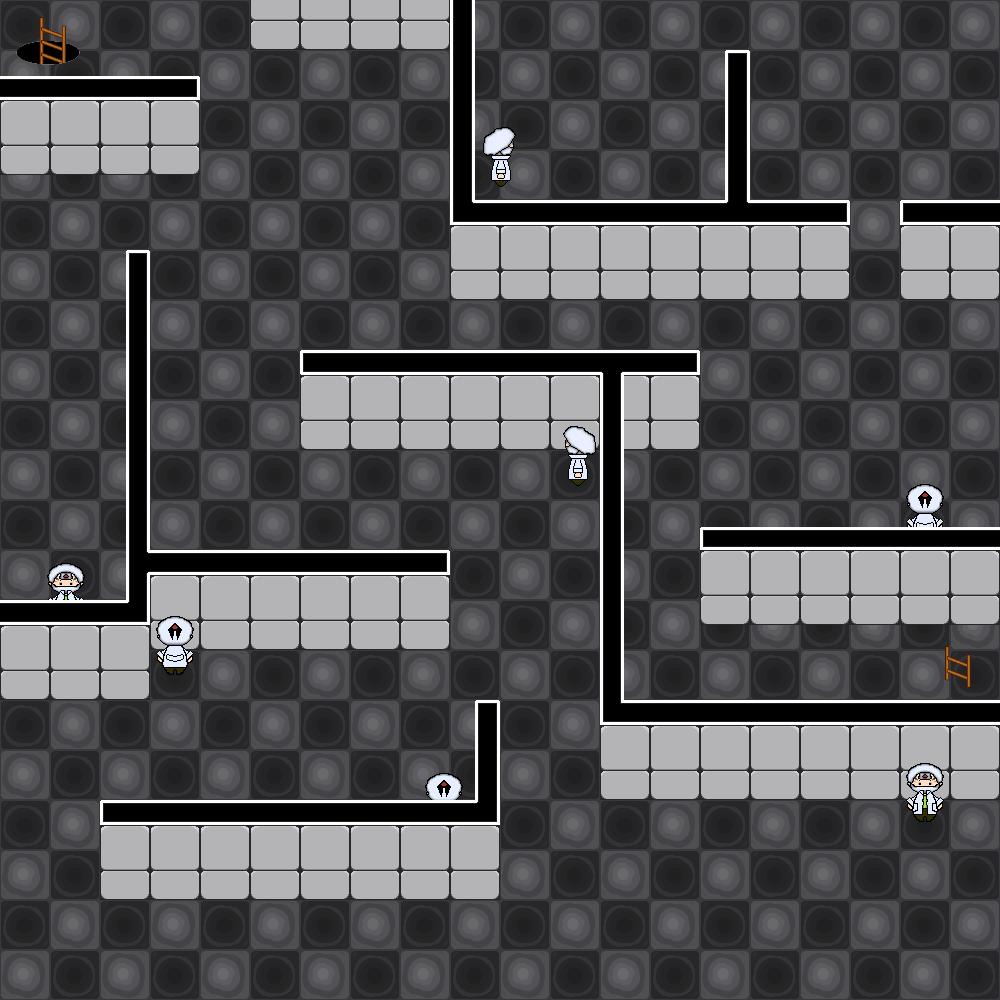
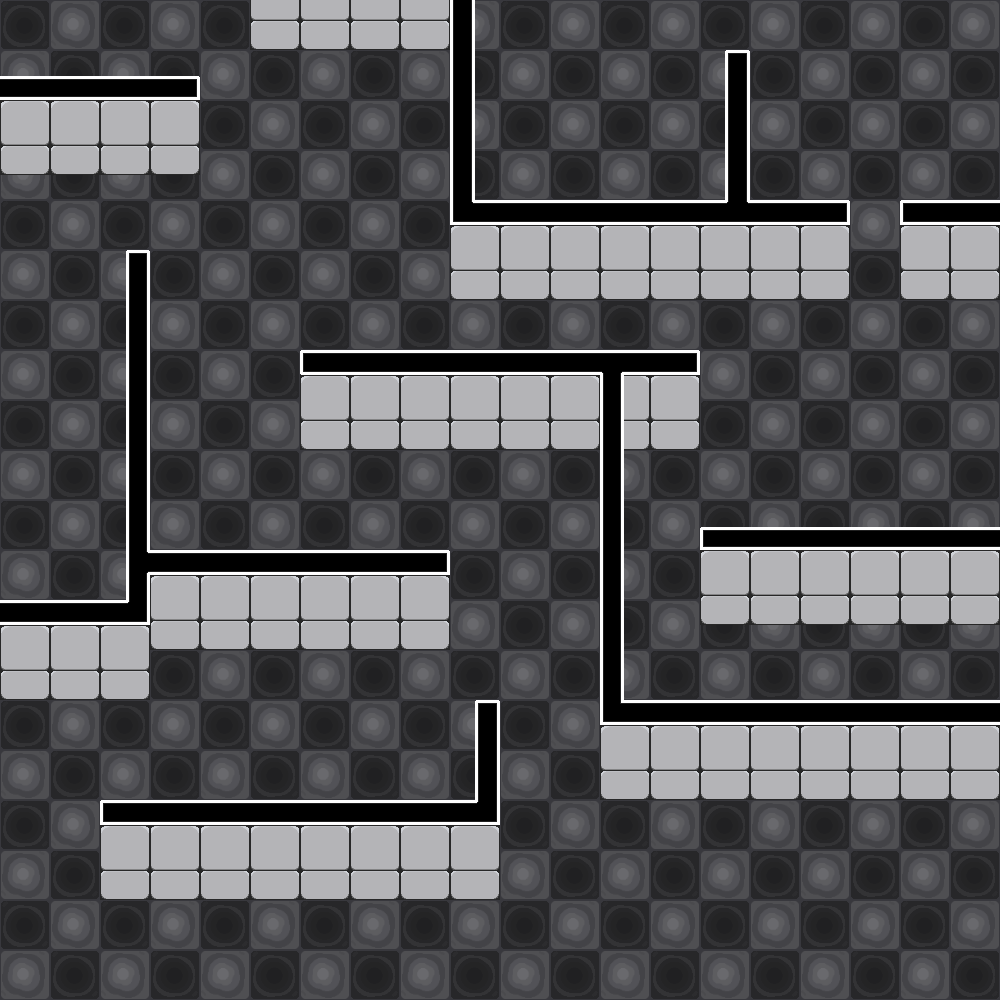
stair up and down works good, but npc and stair have yet to spawn

diff --git a/FinderQuest/FormGame.cs b/FinderQuest/FormGame.cs
@@ -154,7 +154,18 @@ namespace FinderQuest
                     activePersonLastLocation = activePerson.Picture.Location;
                     EnterTalkArea();
                 }
-                
+            }
+            else if (e.KeyCode == Keys.F)
+            {
+                if (panelGame.Visible)
+                {
+                    if (currentWalkArea.CheckTouchPerson(player, out Persons touchPerson) == true)
+                    {
+                        activePerson = touchPerson;
+                        activePersonLastLocation = activePerson.Picture.Location;
+                        NextWalkArea();
+                    }
+                }
             }
             else if (e.KeyCode == Keys.Escape)
             {
@@ -169,12 +180,14 @@ namespace FinderQuest
                     timerTime.Stop();
                 }
             }
-
-            else if (e.KeyCode == Keys.Y && activePerson.SolvedStatus == false)
+            else if (e.KeyCode == Keys.Y && pictureBoxStart.Visible == false)
             {
-                FormQuestion form = new FormQuestion(difficulty);
-                form.Owner = this;
-                form.ShowDialog();
+                if (activePerson.SolvedStatus == false)
+                {
+                    FormQuestion form = new FormQuestion(difficulty);
+                    form.Owner = this;
+                    form.ShowDialog();
+                }
             }
         }
 
@@ -346,16 +359,63 @@ namespace FinderQuest
                 areaNumber = currentWalkArea.NoArea;
             }
 
-            currentWalkArea?.RemoveAllPerson();
             currentWalkArea = WalkAreasLibrary.CreateArea(areaNumber);
             
             if (currentWalkArea != null) 
             {
                 labelArea.Text = currentWalkArea.DisplayData();
             }
-            if (player != null)
+        }
+
+        private void NextWalkArea()
+        {
+            if (activePerson.NoPerson == 15 || activePerson.NoPerson == 16)
             {
-                player.Picture.Location = new Point(0, player.Picture.Location.Y);
+                currentWalkArea?.RemoveAllPerson();
+                currentWalkArea = WalkAreasLibrary.CreateArea(currentWalkArea.NoArea += 1);
+                floorWall.HitBoxLibrary(currentWalkArea.NoArea);
+
+                map = currentWalkArea.Background;
+                pbMap.Image = map;
+                this.BackgroundImage = null;
+                this.BackColor = Color.Black;
+
+                pbPlayer.Parent = pbMap;
+                pbPlayer.BringToFront();
+                pbPlayer.Location = player.Picture.Location;
+                pbPlayer.Image = player.Picture.Image;
+
+                UpdateCam();
+                labelPlayer.Text = player.DisplayData();
+
+                PlaySound("walk area");
+
+                paused = false;
+                playPauseToolStripMenuItem.Text = "Pause Game";
+            }
+            else if (activePerson.NoPerson == 17 || activePerson.NoPerson == 18)
+            {
+                currentWalkArea?.RemoveAllPerson();
+                currentWalkArea = WalkAreasLibrary.CreateArea(currentWalkArea.NoArea -= 1);
+                floorWall.HitBoxLibrary(currentWalkArea.NoArea);
+
+                map = currentWalkArea.Background;
+                pbMap.Image = map;
+                this.BackgroundImage = null;
+                this.BackColor = Color.Black;
+
+                pbPlayer.Parent = pbMap;
+                pbPlayer.BringToFront();
+                pbPlayer.Location = player.Picture.Location;
+                pbPlayer.Image = player.Picture.Image;
+
+                UpdateCam();
+                labelPlayer.Text = player.DisplayData();
+
+                PlaySound("walk area");
+
+                paused = false;
+                playPauseToolStripMenuItem.Text = "Pause Game";
             }
         }
 
@@ -370,28 +430,35 @@ namespace FinderQuest
 
         public void EnterTalkArea()
         {
-            GenerateTalkArea();
-
-            player.Picture.Visible = false;
-
-            panelTalkArea.BackgroundImage = Properties.Resources.emptyFloor;
-            panelTalkArea.Visible = true;
-            panelTalkArea.BringToFront();
-
-            this.Controls.Remove(activePerson.Picture);
-
-            activePerson.Picture.Size = new Size(200, 300);
-            activePerson.Picture.Location = new Point(300, 100);
-            activePerson.DisplayPicture(panelTalkArea);
-
-            if (activePerson.SolvedStatus == true)
+            if (activePerson.NoPerson <= 14)
             {
-                activePerson.Dialog = "Success";
+                GenerateTalkArea();
+
+                player.Picture.Visible = false;
+
+                panelTalkArea.BackgroundImage = Properties.Resources.emptyFloor;
+                panelTalkArea.Visible = true;
+                panelTalkArea.BringToFront();
+
+                this.Controls.Remove(activePerson.Picture);
+
+                activePerson.Picture.Size = new Size(200, 300);
+                activePerson.Picture.Location = new Point(300, 100);
+                activePerson.DisplayPicture(panelTalkArea);
+
+                if (activePerson.SolvedStatus == true)
+                {
+                    activePerson.Dialog = "Success";
+                }
+
+                activePerson.DisplayDialog(panelTalkArea);
+
+                PlaySound("talk area");
             }
-
-            activePerson.DisplayDialog(panelTalkArea);
-
-            PlaySound("talk area");
+            else
+            {
+                NextWalkArea();
+            }
         }
 
         public void ExitTalkArea()
@@ -510,7 +577,6 @@ namespace FinderQuest
                 player.Picture.Location = new Point(player.Picture.Location.X + moveX, player.Picture.Location.Y + moveY);
                 UpdateCam();
             }
-
         }
 
         private void pictureBoxStart_Click(object sender, EventArgs e)

diff --git a/FinderQuest/WalkArea/WalkAreasLibrary.cs b/FinderQuest/WalkArea/WalkAreasLibrary.cs
@@ -23,6 +23,7 @@ namespace FinderQuest.WalkArea
                     createWalkArea.AddPerson(4, "Clone 4", Properties.Resources.npc_left, new Point(100, 625), "origin..faulty..press....'y'");
                     createWalkArea.AddPerson(5, "Clone 5", Properties.Resources.npc_front, new Point(195, 245), "system fail, press 'y' to conduct repair");
                     createWalkArea.AddPerson(6, "Clone 6", Properties.Resources.npc_front, new Point(420, 650), "model corrupted, press 'y' to update");
+                    createWalkArea.AddPerson(15, "StairDown", Properties.Resources.stairDown, new Point(918, 625), "");
                     break;
                 case 2:
                     createWalkArea = new WalkAreas("Floor 2", Properties.Resources.floor2, 2);
@@ -33,10 +34,13 @@ namespace FinderQuest.WalkArea
                     createWalkArea.AddPerson(11, "Clone 11", Properties.Resources.npc_left, new Point(530, 440), "body broken beyond repair. press 'y' to conduct emergency repair");
                     createWalkArea.AddPerson(12, "Clone 12", Properties.Resources.npc_right, new Point(410, 160), "clone 0012 report status: badly damaged. press 'y' to accept");
                     createWalkArea.AddPerson(13, "Clone 13", Properties.Resources.npc_back, new Point(135, 640), "repair deemed impossible. preserving core model. press 'y too initiate");
+                    createWalkArea.AddPerson(16, "StairDown", Properties.Resources.stairDown, new Point(13, 15), "");
+                    createWalkArea.AddPerson(17, "StairUp", Properties.Resources.stairUp, new Point(918, 625), "");
                     break;
                 case 3:
                     createWalkArea = new WalkAreas("Floor 3", Properties.Resources.floor3, 3);
                     createWalkArea.AddPerson(14, "Test Subject", Properties.Resources.boss_enemy, new Point(715, 0), "Perish, human!");
+                    createWalkArea.AddPerson(18, "StairUp", Properties.Resources.stairUp, new Point(13, 15), "");
                     break;
             }
             return createWalkArea;
